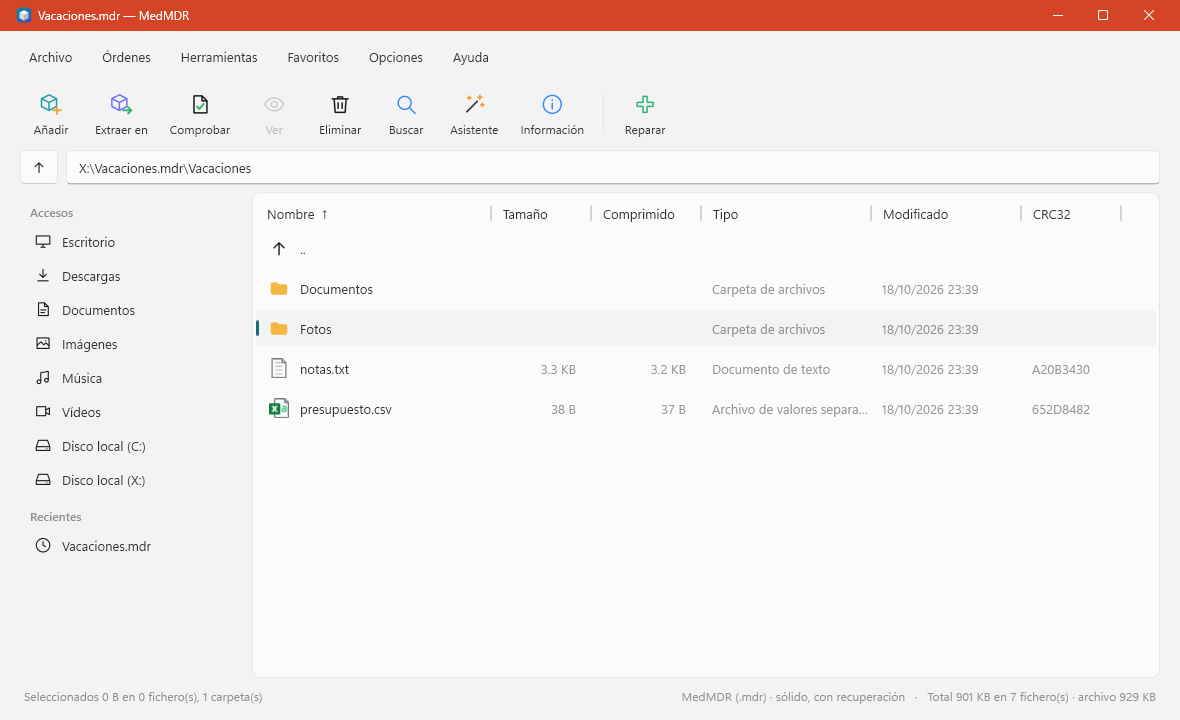
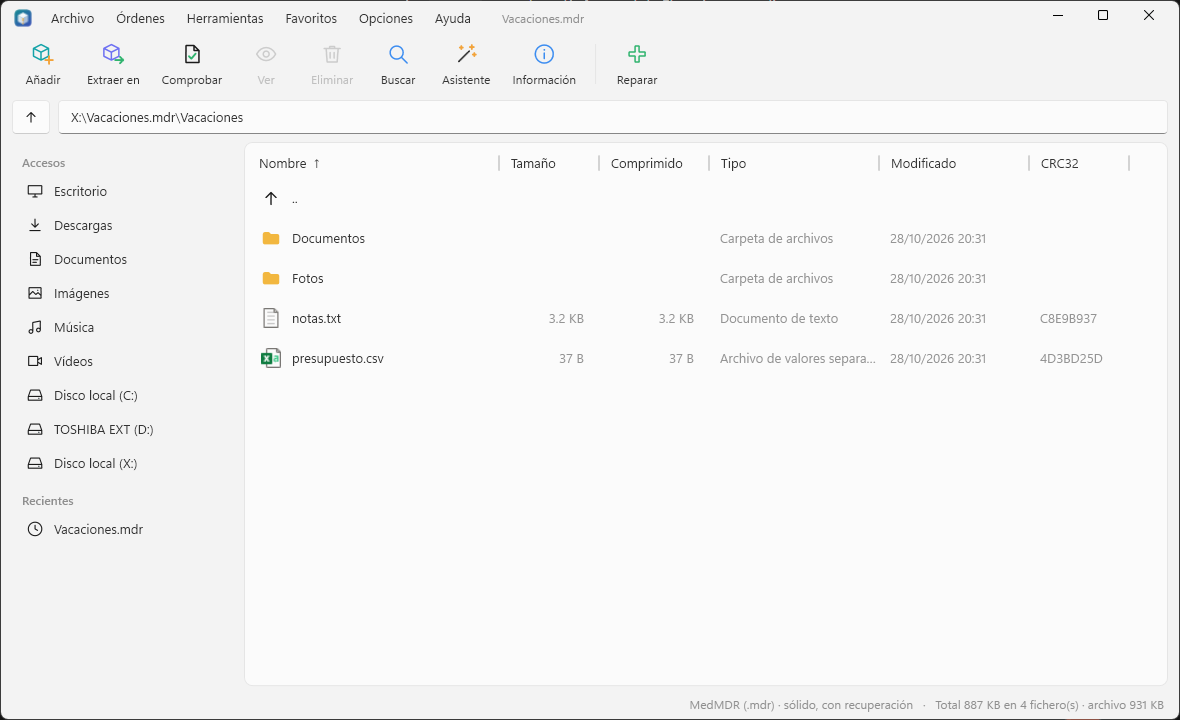
2.1.0: encabezado unificado (menús y botones en la barra de título)
- Fila 1: icono, menús, título discreto y botones nativos de ventana (WindowChrome); fila 2: botones con texto; mismo fondo debajo.
- Mica en Windows 11 y color liso en Windows 10; ancho mínimo y opciones de texto/iconos sin cambios.
- Plantilla compacta para los menús de arriba (como trigger de Role: un Setter pierde frente a Fluent).
- Pruebas: --size, --maximized, --screen, openmenu; escenario nuevo en el smoke test.
- Capturas del README regeneradas.

diff --git a/src/MedMDR.App/MainWindow.xaml b/src/MedMDR.App/MainWindow.xaml
@@ -2,15 +2,23 @@
         xmlns="http://schemas.microsoft.com/winfx/2006/xaml/presentation"
         xmlns:x="http://schemas.microsoft.com/winfx/2006/xaml"
         xmlns:local="clr-namespace:MedMDR.Wpf"
+        xmlns:shell="clr-namespace:System.Windows.Shell;assembly=PresentationFramework"
         Title="MedMDR" Width="1180" Height="720" MinWidth="860" MinHeight="480"
+        Background="{DynamicResource SolidBackgroundFillColorBaseBrush}"
         FontFamily="{StaticResource UiFont}" FontSize="{StaticResource FontSizeBody}"
         WindowStartupLocation="CenterScreen" AllowDrop="True"
         PreviewKeyDown="Window_PreviewKeyDown" Drop="Window_Drop" DragOver="Window_DragOver" Closing="Window_Closing">
     <Window.Resources>
         <BooleanToVisibilityConverter x:Key="BoolToVis" />
+        <local:HeaderTitleConverter x:Key="HeaderTitle" />
     </Window.Resources>
 
-    <Grid>
+    <!-- Barra de título propia: el encabezado (menús y botones) ocupa el sitio de la barra de Windows; los botones de ventana son los nativos -->
+    <shell:WindowChrome.WindowChrome>
+        <shell:WindowChrome CaptionHeight="36" ResizeBorderThickness="6" GlassFrameThickness="-1" UseAeroCaptionButtons="True" CornerRadius="0" />
+    </shell:WindowChrome.WindowChrome>
+
+    <Grid x:Name="RootGrid">
         <Grid.RowDefinitions>
             <RowDefinition Height="Auto" />
             <RowDefinition Height="Auto" />
@@ -19,8 +27,62 @@
             <RowDefinition Height="Auto" />
         </Grid.RowDefinitions>
 
-        <!-- Menús -->
-        <Menu Grid.Row="0" Background="Transparent" Padding="6,2">
+        <!-- Fila 1 del encabezado: icono, menús, título discreto y, a la derecha, el sitio de los botones nativos de ventana -->
+        <Grid Grid.Row="0" Height="36">
+            <Grid.ColumnDefinitions>
+                <ColumnDefinition Width="Auto" />
+                <ColumnDefinition Width="Auto" />
+                <ColumnDefinition Width="*" />
+                <ColumnDefinition x:Name="CaptionButtonsColumn" Width="150" />
+            </Grid.ColumnDefinitions>
+            <Image Grid.Column="0" Source="pack://application:,,,/Assets/app.ico" Width="18" Height="18" Margin="14,0,6,0" VerticalAlignment="Center"
+                   RenderOptions.BitmapScalingMode="HighQuality" />
+            <Menu x:Name="MainMenu" Grid.Column="1" Background="Transparent" Padding="2,0" VerticalAlignment="Center" shell:WindowChrome.IsHitTestVisibleInChrome="True">
+                <!-- Los menús de arriba, en versión compacta: el estilo de Fluent reserva ~48 px de alto y no cabe en la fila del encabezado -->
+                <Menu.ItemContainerStyle>
+                    <Style TargetType="MenuItem" BasedOn="{StaticResource {x:Type MenuItem}}">
+                        <Style.Triggers>
+                        <Trigger Property="Role" Value="TopLevelHeader">
+                        <Setter Property="Template">
+                            <Setter.Value>
+                                <ControlTemplate TargetType="MenuItem">
+                                    <Border x:Name="Border" Margin="1,3" CornerRadius="6" Background="{TemplateBinding Background}">
+                                        <Grid>
+                                            <ContentPresenter ContentSource="Header" RecognizesAccessKey="True" Margin="10,5" VerticalAlignment="Center"
+                                                              TextElement.Foreground="{TemplateBinding Foreground}" SnapsToDevicePixels="{TemplateBinding SnapsToDevicePixels}" />
+                                            <Popup x:Name="PART_Popup" IsOpen="{TemplateBinding IsSubmenuOpen}" Placement="Bottom" HorizontalOffset="-12" VerticalOffset="4"
+                                                   PopupAnimation="None" AllowsTransparency="True" Focusable="False">
+                                                <Border BorderThickness="1" Padding="0,3" CornerRadius="8" BorderBrush="{DynamicResource FlyoutBorderBrush}"
+                                                        Background="{DynamicResource FlyoutBackground}" Margin="12,0,12,18" SnapsToDevicePixels="True">
+                                                    <Border.Effect><DropShadowEffect ShadowDepth="6" Direction="270" Opacity="0.25" BlurRadius="20" /></Border.Effect>
+                                                    <ScrollViewer CanContentScroll="True" Style="{DynamicResource MenuItemScrollViewerStyle}">
+                                                        <Grid>
+                                                            <ItemsPresenter KeyboardNavigation.TabNavigation="Cycle" KeyboardNavigation.DirectionalNavigation="Cycle" Grid.IsSharedSizeScope="True"
+                                                                            SnapsToDevicePixels="{TemplateBinding SnapsToDevicePixels}" />
+                                                        </Grid>
+                                                    </ScrollViewer>
+                                                </Border>
+                                            </Popup>
+                                        </Grid>
+                                    </Border>
+                                    <ControlTemplate.Triggers>
+                                        <Trigger Property="IsHighlighted" Value="True">
+                                            <Setter TargetName="Border" Property="Background" Value="{DynamicResource MenuBarItemBackgroundSelected}" />
+                                        </Trigger>
+                                        <Trigger Property="IsSubmenuOpen" Value="True">
+                                            <Setter TargetName="Border" Property="Background" Value="{DynamicResource MenuBarItemBackgroundSelected}" />
+                                        </Trigger>
+                                        <Trigger Property="IsEnabled" Value="False">
+                                            <Setter Property="TextElement.Foreground" Value="{DynamicResource TextFillColorDisabledBrush}" />
+                                        </Trigger>
+                                    </ControlTemplate.Triggers>
+                                </ControlTemplate>
+                            </Setter.Value>
+                        </Setter>
+                        </Trigger>
+                        </Style.Triggers>
+                    </Style>
+                </Menu.ItemContainerStyle>
             <MenuItem Header="_Archivo">
                 <MenuItem Header="_Abrir archivo…" InputGestureText="Ctrl+O" Click="OpenArchiveDialog_Click" />
                 <MenuItem Header="Abrir _carpeta…" Click="OpenFolder_Click" />
@@ -82,10 +144,24 @@
                 <Separator />
                 <MenuItem Header="_Acerca de MedMDR…" Click="About_Click" />
             </MenuItem>
-        </Menu>
+            </Menu>
+            <TextBlock Grid.Column="2" Margin="18,0,12,0" VerticalAlignment="Center" TextTrimming="CharacterEllipsis" FontSize="{StaticResource FontSizeCaption}"
+                       Foreground="{DynamicResource TextFillColorSecondaryBrush}"
+                       Text="{Binding Title, RelativeSource={RelativeSource AncestorType=Window}, Converter={StaticResource HeaderTitle}}">
+                <TextBlock.Style>
+                    <Style TargetType="TextBlock">
+                        <Style.Triggers>
+                            <DataTrigger Binding="{Binding IsActive, RelativeSource={RelativeSource AncestorType=Window}}" Value="False">
+                                <Setter Property="Opacity" Value="0.55" />
+                            </DataTrigger>
+                        </Style.Triggers>
+                    </Style>
+                </TextBlock.Style>
+            </TextBlock>
+        </Grid>
 
-        <!-- Barra de comandos -->
-        <StackPanel Grid.Row="1" Orientation="Horizontal" Margin="10,4,10,2">
+        <!-- Fila 2 del encabezado: barra de comandos (mismo fondo, sin líneas) -->
+        <StackPanel Grid.Row="1" Orientation="Horizontal" Margin="10,0,10,2">
             <local:CommandButton x:Name="CmdAdd" Kind="Add" Label="Añadir" Click="Command_Add" />
             <local:CommandButton x:Name="CmdExtract" Kind="Extract" Label="Extraer en" Click="Command_Extract" />
             <local:CommandButton x:Name="CmdTest" Kind="Test" Label="Comprobar" Click="Command_Test" />

diff --git a/src/MedMDR.App/Services/WindowBackdrop.cs b/src/MedMDR.App/Services/WindowBackdrop.cs
@@ -1,0 +1,63 @@
+using System.Globalization;
+using System.Runtime.InteropServices;
+using System.Windows;
+using System.Windows.Data;
+using System.Windows.Interop;
+
+namespace MedMDR.Wpf;
+
+/// <summary>Detalles de Windows que necesita la barra de título propia: fondo Mica, sitio de los botones nativos y ajuste al maximizar.</summary>
+internal static class WindowBackdrop
+{
+    [DllImport("dwmapi.dll")] private static extern int DwmSetWindowAttribute(IntPtr hwnd, int attribute, ref int value, int size);
+    [DllImport("user32.dll")] private static extern int GetSystemMetricsForDpi(int index, uint dpi);
+    [DllImport("user32.dll")] private static extern uint GetDpiForWindow(IntPtr hwnd);
+
+    private const int DWMWA_SYSTEMBACKDROP_TYPE = 38, DWMSBT_MAINWINDOW = 2;     // 2 = Mica
+    private const int DWMWA_CAPTION_COLOR = 35;
+    private const uint DWMWA_COLOR_NONE = 0xFFFFFFFE;                            // sin color propio: se ve el fondo (Mica)
+    private const int SM_CXFRAME = 32, SM_CXPADDEDBORDER = 92, SM_CYFRAME = 33;
+
+    /// <summary>Pide a Windows 11 (22H2 o posterior) el fondo Mica. En Windows 10 devuelve false y se usa un color liso.</summary>
+    public static bool TryEnableMica(Window w)
+    {
+        if (Environment.OSVersion.Version.Build < 22621) return false;
+        try
+        {
+            IntPtr hwnd = new WindowInteropHelper(w).Handle;
+            int value = DWMSBT_MAINWINDOW;
+            bool ok = DwmSetWindowAttribute(hwnd, DWMWA_SYSTEMBACKDROP_TYPE, ref value, sizeof(int)) == 0;
+            // Si el usuario tiene «color de énfasis en las barras de título», Windows pintaría la franja de arriba de ese color: se deja transparente
+            int none = unchecked((int)DWMWA_COLOR_NONE);
+            DwmSetWindowAttribute(hwnd, DWMWA_CAPTION_COLOR, ref none, sizeof(int));
+            return ok;
+        }
+        catch { return false; }
+    }
+
+    /// <summary>Ancho (en unidades de WPF) que ocupan los tres botones nativos de ventana, con un pequeño margen.</summary>
+    public static double CaptionButtonsWidth(Window w) => 150;
+
+    /// <summary>Lo que una ventana maximizada con barra propia sobresale por cada lado, en unidades de WPF.</summary>
+    public static Thickness MaximizedOverhang(Window w)
+    {
+        IntPtr hwnd = new WindowInteropHelper(w).Handle;
+        uint dpi = hwnd == IntPtr.Zero ? 96 : GetDpiForWindow(hwnd);
+        double scale = dpi / 96.0;
+        double x = (GetSystemMetricsForDpi(SM_CXFRAME, dpi) + GetSystemMetricsForDpi(SM_CXPADDEDBORDER, dpi)) / scale;
+        double y = (GetSystemMetricsForDpi(SM_CYFRAME, dpi) + GetSystemMetricsForDpi(SM_CXPADDEDBORDER, dpi)) / scale;
+        return new Thickness(x, y, x, y);
+    }
+}
+
+/// <summary>El título de la ventana es «nombre — MedMDR»; en el encabezado solo se muestra el nombre.</summary>
+internal sealed class HeaderTitleConverter : IValueConverter
+{
+    public object Convert(object value, Type targetType, object parameter, CultureInfo culture)
+    {
+        string t = value as string ?? "";
+        string suffix = " — " + AppInfo.Name;
+        return t.EndsWith(suffix, StringComparison.Ordinal) ? t[..^suffix.Length] : t;
+    }
+    public object ConvertBack(object value, Type targetType, object parameter, CultureInfo culture) => throw new NotSupportedException();
+}

diff --git a/src/MedMDR.App/App.xaml.cs b/src/MedMDR.App/App.xaml.cs
@@ -36,6 +36,8 @@ public partial class App : Application
         }
 
         Window window = Args.Dialog != null ? DevTools.CreateDialog(Args.Dialog) : new MainWindow(Args.Path);
+        if (Args.Width > 0 && window is MainWindow) { window.Width = Args.Width; window.Height = Args.Height; }
+        if (Args.Maximized) window.WindowState = WindowState.Maximized;
         window.Show();
         if (Args.Snapshot != null) DevTools.SnapshotLater(window, Args);
     }
@@ -55,6 +57,9 @@ public sealed class LaunchArgs
     public string? Password;
     public bool AutoYes;                    // solo pruebas: responde «Sí/Aceptar» a las preguntas sin mostrarlas
     public string? AutoText;                // solo pruebas: texto con el que se responden los cuadros de texto
+    public bool ScreenCapture;              // solo pruebas: la captura se toma de la pantalla real (muestra Mica y los botones nativos tal como se ven)
+    public bool Maximized;                  // solo pruebas: abre la ventana maximizada
+    public int Width, Height;               // solo pruebas: tamaño de la ventana (--size 900x600)
     public bool Accept;                     // solo pruebas: tras la captura, cada diálogo se acepta con sus valores (en vez de cancelarse)
     public int SelectRow = -1;
     public string Mode = "main";           // main | add | extract-here | extract-named | extract-to | test (órdenes del menú de Windows)
@@ -79,6 +84,9 @@ public sealed class LaunchArgs
                 case "--extract-to": l.Mode = "extract-to"; break;
                 case "--test": l.Mode = "test"; break;
                 case "--accept": l.Accept = true; break;
+                case "--maximized": l.Maximized = true; break;
+                case "--screen": l.ScreenCapture = true; break;
+                case "--size": { var wh = args[++i].Split('x'); l.Width = int.Parse(wh[0]); l.Height = int.Parse(wh[1]); break; }
                 case "--text": l.AutoText = args[++i]; break;
                 case "--password": l.Password = args[++i]; break;
                 case "--dialog": l.Dialog = args[++i]; break;

diff --git a/src/MedMDR.App/MainWindow.xaml.cs b/src/MedMDR.App/MainWindow.xaml.cs
@@ -7,6 +7,7 @@ using System.Windows.Data;
 using System.Windows.Input;
 using MedMDR.Core;
 using CoreTheme = MedMDR.Core.ThemeMode;
+using System.Windows.Media;
 
 namespace MedMDR.Wpf;
 
@@ -32,6 +33,20 @@ public partial class MainWindow : Window
 
     private bool InArchive => _session != null;
     private IArchive Archive => _session!.Archive;
+
+    protected override void OnSourceInitialized(EventArgs e)
+    {
+        base.OnSourceInitialized(e);
+        if (WindowBackdrop.TryEnableMica(this)) Background = Brushes.Transparent;       // Windows 11: el fondo es el Mica del sistema; en Windows 10 queda el color liso del tema
+        CaptionButtonsColumn.Width = new GridLength(WindowBackdrop.CaptionButtonsWidth(this));
+    }
+
+    protected override void OnStateChanged(EventArgs e)
+    {
+        base.OnStateChanged(e);
+        // Con barra propia, una ventana maximizada sobresale del borde de la pantalla: se compensa con un margen para que no se corte el encabezado
+        RootGrid.Margin = WindowState == WindowState.Maximized ? WindowBackdrop.MaximizedOverhang(this) : new Thickness(0);
+    }
 
     public MainWindow(string? path, bool quick = false)
     {
@@ -547,6 +562,7 @@ public partial class MainWindow : Window
                     FileList_ContextMenuOpening(this, null!);
                     Say("MENÚ: " + string.Join(" | ", RowMenu.Items.OfType<MenuItem>().Select(m => m.Header)));
                     break;
+                case "openmenu": ((MenuItem)MainMenu.Items[1]).IsSubmenuOpen = true; break;                        // solo pruebas: despliega «Órdenes»
                 case "settings": Command_Settings(this, noArgs); break;
                 case "find": Command_Find(this, noArgs); break;
                 case "delete": Command_Delete(this, noArgs); break;

diff --git a/src/MedMDR.App/DevTools.cs b/src/MedMDR.App/DevTools.cs
@@ -122,8 +122,24 @@ internal static class DevTools
         timer.Start();
     }
 
+    /// <summary>Captura de la pantalla real (lo que ve el usuario, con Mica y botones nativos). La ventana se pone delante unos instantes.</summary>
+    private static void SaveFromScreen(Window window, string file)
+    {
+        window.Topmost = true; window.Activate();
+        window.Dispatcher.Invoke(() => { }, DispatcherPriority.ContextIdle);
+        System.Threading.Thread.Sleep(700);
+        IntPtr h = new WindowInteropHelper(window).Handle;
+        GetWindowRect(h, out var r);
+        int w = r.Right - r.Left, ht = r.Bottom - r.Top;
+        using var bmp = new System.Drawing.Bitmap(w, ht);
+        using (var g = System.Drawing.Graphics.FromImage(bmp)) g.CopyFromScreen(r.Left, r.Top, 0, 0, new System.Drawing.Size(w, ht));
+        bmp.Save(file, System.Drawing.Imaging.ImageFormat.Png);
+        window.Topmost = false;
+    }
+
     private static void Save(Window window, string file)
     {
+        if (App.Args.ScreenCapture) { SaveFromScreen(window, file); return; }
         IntPtr h = new WindowInteropHelper(window).Handle;
         GetWindowRect(h, out var r);
         int w = r.Right - r.Left, ht = r.Bottom - r.Top;

diff --git a/docs/DESARROLLO.md b/docs/DESARROLLO.md
@@ -64,7 +64,9 @@ MedMDR.exe --dump-keys claves.txt                        lista los recursos del 
 ```
 
 - `--auto`: órdenes separadas por comas: `select:N, open, up, test, info, view, extract, extract-here, delete, rename, add:ruta1|ruta2,
-  new:ruta1|ruta2, convert, find, wizard, settings, benchmark, protect, lock, repair, report, dragprep, menu`. Requiere `--snapshot`.
+  new:ruta1|ruta2, convert, find, wizard, settings, benchmark, protect, lock, repair, report, dragprep, dragvirtual, menu, openmenu`. Requiere `--snapshot`.
+- `--size 860x560`, `--maximized`: abren la ventana con ese tamaño o maximizada. `--screen`: la captura se toma de la pantalla real (con Mica, botones nativos y menús desplegados) en vez de pintar la ventana en memoria; hace falta para comprobar el encabezado unificado.
+- Encabezado: la fila de menús ocupa el sitio de la barra de título (`WindowChrome` con botones nativos, Mica en Windows 11 y color liso en Windows 10; ver `Services/WindowBackdrop.cs`). El estilo de Fluent para los menús de arriba no cabe en esa fila: se usa una plantilla compacta puesta como *trigger* de `Role`, porque un `Setter` normal pierde frente al trigger de Fluent.
 - `--shots-dir`: guarda una captura de cada diálogo que se abra y lo cierra. Con `--accept` lo acepta con sus valores en vez de cancelarlo
   (en el asistente recorre los tres pasos, con `--text ruta` como origen). `--yes` y `--text` responden a las preguntas sin mostrarlas.
 - Órdenes del menú de Windows (sin ventana principal): `--add ruta…`, `--extract-here f`, `--extract-to f`, `--test f`.

diff --git a/.claude/agents/medmdr-revisor.md b/.claude/agents/medmdr-revisor.md
@@ -9,7 +9,7 @@ Eres el revisor de código de **MedMDR** (C#, .NET 10; motor `src/MedMDR.Core`, 
 Con Bash usa únicamente órdenes de lectura (`git diff`, `git log`, `git show`, `git grep`).
 
 ## Qué revisar
-Te dirán qué mirar (por ejemplo «lo cambiado desde la última etiqueta»: `git diff v2.0.3..HEAD`). Si no, revisa `git diff` y `git diff --staged`.
+Te dirán qué mirar (por ejemplo «lo cambiado desde la última etiqueta»: `git diff v2.1.0..HEAD`). Si no, revisa `git diff` y `git diff --staged`.
 Busca **fallos que ocurrirían de verdad**, no estilo. Tu lista, de más a menos grave:
 
 1. **Llamadas nativas (P/Invoke)**: estructuras con `Pack` equivocado en 64 bits (la de `SHFILEOPSTRUCT` con `Pack = 1` cerraba el programa con
